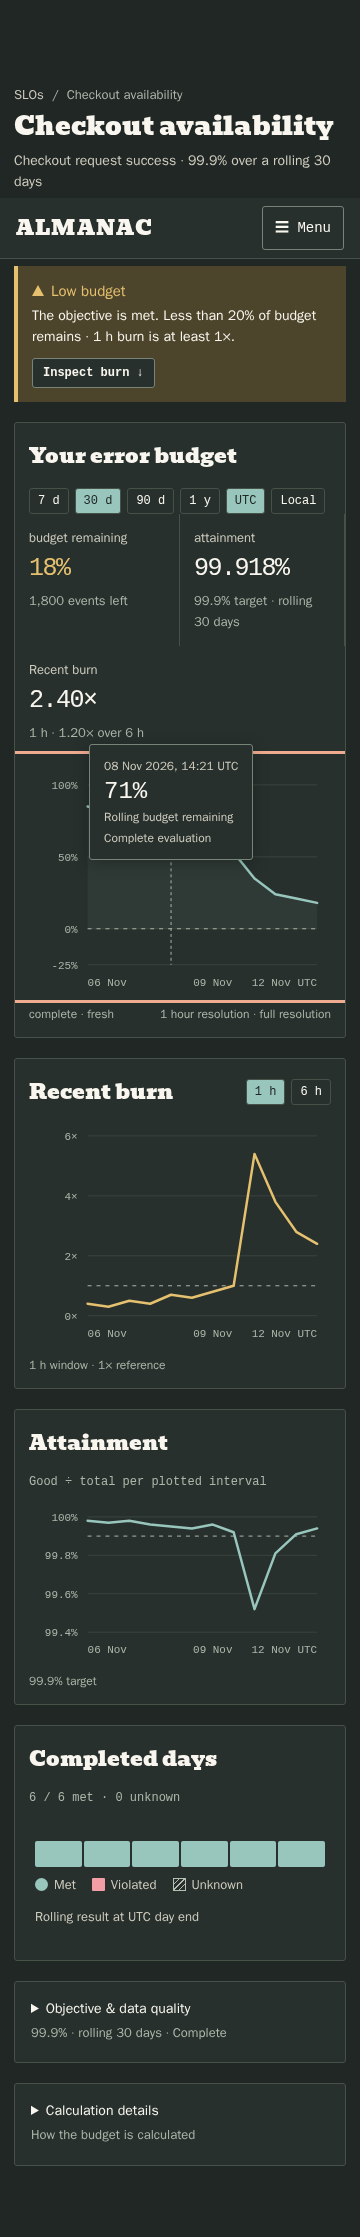
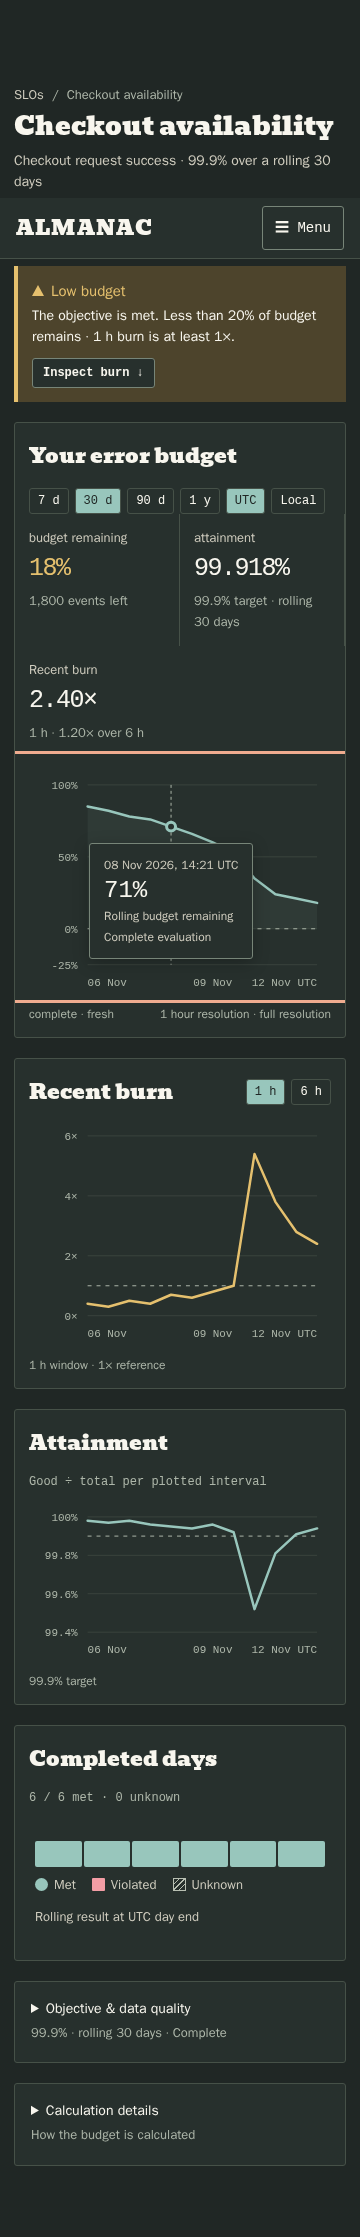
Handle narrow and same-sample SLO tooltip movement

Changed region(s): [[0.2444, 0.3393, 0.6417, 0.4318], [0.6722, 0.3701, 0.7028, 0.4318]]

diff --git a/web/src/components/charts/SloHistoryChart.tsx b/web/src/components/charts/SloHistoryChart.tsx
@@ -11,8 +11,8 @@ export function pointTime(value:string,zone:'UTC'|'local'='UTC'):string {
  return new Date(value).toLocaleString('en-GB',{day:'2-digit',month:'short',year:'numeric',hour:'2-digit',minute:'2-digit',hour12:false,...(zone==='UTC'?{timeZone:'UTC'}:{timeZoneName:'shortOffset'})})+(zone==='UTC'?' UTC':' local');
 }
 export function SloHistoryChart({kind,samples,start,end,target,compact=false,zone='UTC',generation,burnLabel='1 h'}:Props) {
- const host=useRef<HTMLDivElement>(null),tooltip=useRef<HTMLDivElement>(null),pointerY=useRef<number|undefined>(undefined);
- const [width,setWidth]=useState(980),[index,setIndex]=useState<number|null>(null);
+ const host=useRef<HTMLDivElement>(null),tooltip=useRef<HTMLDivElement>(null);
+ const [width,setWidth]=useState(980),[index,setIndex]=useState<number|null>(null),[pointerY,setPointerY]=useState<number|undefined>(undefined);
  useLayoutEffect(()=>{const el=host.current;if(!el)return;const resize=()=>setWidth(Math.max(280,el.clientWidth-(innerWidth>700?38:14)));resize();const observer=new ResizeObserver(resize);observer.observe(el);return()=>observer.disconnect();},[start,end]);
  useEffect(()=>setIndex(null),[samples,start,end,kind]);
  useEffect(()=>{const close=(e:globalThis.PointerEvent)=>{if(e.target instanceof Node&&!host.current?.contains(e.target))setIndex(null);};const escape=(e:KeyboardEvent)=>{if(e.key==='Escape')setIndex(null);};document.addEventListener('pointerdown',close);document.addEventListener('keydown',escape);return()=>{document.removeEventListener('pointerdown',close);document.removeEventListener('keydown',escape);};},[]);
@@ -45,18 +45,23 @@ export function SloHistoryChart({kind,samples,start,end,target,compact=false,zon
   const fitsRight=pointX+gap+panelWidth<=bounds.width-8,fitsLeft=pointX-gap-panelWidth>=8;
   const leftPosition=fitsRight?pointX+gap:fitsLeft?pointX-gap-panelWidth:Math.max(8,Math.min(pointX-panelWidth/2,bounds.width-panelWidth-8));
   // Match SLI inspection: offset from the pointer (or selected point for keyboard), then flip at viewport edges.
-  const anchorY=pointerY.current===undefined?pointY:pointerY.current-bounds.top;
+  const anchorY=pointerY===undefined?pointY:pointerY-bounds.top;
   const preferredTop=bounds.top+anchorY+gap+panelHeight<=innerHeight-8?anchorY+gap:anchorY-panelHeight-gap;
-  const topPosition=Math.max(8-bounds.top,Math.min(preferredTop,innerHeight-bounds.top-panelHeight-8));
+  const minTop=8-bounds.top,maxTop=innerHeight-bounds.top-panelHeight-8;
+  let topPosition=Math.max(minTop,Math.min(preferredTop,maxTop));
+  if(!fitsRight&&!fitsLeft&&topPosition<pointY+gap&&topPosition+panelHeight>pointY-gap){
+   const below=pointY+gap,above=pointY-panelHeight-gap;
+   topPosition=below<=maxTop?Math.max(minTop,below):Math.max(minTop,above);
+  }
   panel.style.left=`${leftPosition}px`;panel.style.top=`${topPosition}px`;
  });
- function inspect(e:PointerEvent<HTMLDivElement>){pointerY.current=e.clientY;const svg=e.currentTarget.querySelector('svg');if(!svg||!samples.length)return;const r=svg.getBoundingClientRect(),value=min+((e.clientX-r.left)/r.width*width-left)/(right-left)*(max-min);let nearest=0;for(let i=1;i<samples.length;i++)if(Math.abs(Date.parse(samples[i]!.evaluation_at)-value)<Math.abs(Date.parse(samples[nearest]!.evaluation_at)-value))nearest=i;setIndex(nearest);}
+ function inspect(e:PointerEvent<HTMLDivElement>){setPointerY(e.clientY);const svg=e.currentTarget.querySelector('svg');if(!svg||!samples.length)return;const r=svg.getBoundingClientRect(),value=min+((e.clientX-r.left)/r.width*width-left)/(right-left)*(max-min);let nearest=0;for(let i=1;i<samples.length;i++)if(Math.abs(Date.parse(samples[i]!.evaluation_at)-value)<Math.abs(Date.parse(samples[nearest]!.evaluation_at)-value))nearest=i;setIndex(nearest);}
  const tickFractions=width<480?[0,6/11,1]:[0,4/11,8/11,1];
  const selectedValue=selected&&allowed(selected)?(kind==='burn'?`${selected.burn}×`:percentExact(selected[field])):null;
  if(!Number.isFinite(min)||!Number.isFinite(max)||max<=min)return <p role="alert">Chart unavailable: Timeline range must have end after start</p>;
  return <div ref={host} className={`slo-history-chart ${kind}`} data-chart-ready="true" data-rendered-generation={generation} data-rendered-zone={zone} role="group" aria-label={`Inspect ${label}. Use arrow keys, Home, End, Escape.`} tabIndex={samples.length?0:undefined}
  onPointerMove={e=>{if(e.pointerType!=='touch')inspect(e);}} onPointerDown={e=>{if(e.pointerType==='touch')inspect(e);}} onPointerLeave={e=>{if(e.pointerType!=='touch')setIndex(null);}} onBlur={()=>setIndex(null)}
- onKeyDown={e=>{pointerY.current=undefined;if(e.key==='Escape'){setIndex(null);return;}if(!samples.length||!['Home','End','ArrowLeft','ArrowRight'].includes(e.key))return;e.preventDefault();setIndex(i=>e.key==='Home'?0:e.key==='End'?samples.length-1:Math.max(0,Math.min(samples.length-1,(i??samples.length-1)+(e.key==='ArrowRight'?1:-1))));}}>
+ onKeyDown={e=>{setPointerY(undefined);if(e.key==='Escape'){setIndex(null);return;}if(!samples.length||!['Home','End','ArrowLeft','ArrowRight'].includes(e.key))return;e.preventDefault();setIndex(i=>e.key==='Home'?0:e.key==='End'?samples.length-1:Math.max(0,Math.min(samples.length-1,(i??samples.length-1)+(e.key==='ArrowRight'?1:-1))));}}>
  {samples.length===0?<p className="slo-history-empty">No history available for this period.</p>:<svg viewBox={`0 0 ${width} ${height}`} role="img" aria-label={`${label}; unavailable measurements are gaps.`}>
  {ticks.map((t,i)=><g key={i}><line className="gridline" x1={left} x2={right} y1={y(t)} y2={y(t)}/><text className="axis" x="55" y={y(t)+4} textAnchor="end">{Number(t.toFixed(kind==='attainment'?3:2))}{unit}</text></g>)}
  <line className="ref" x1={left} x2={right} y1={y(kind==='budget'?0:kind==='burn'?1:Number(target)*100)} y2={y(kind==='budget'?0:kind==='burn'?1:Number(target)*100)}/>

diff --git a/web/browser/slo-tooltip.spec.ts b/web/browser/slo-tooltip.spec.ts
@@ -1,0 +1,32 @@
+import {expect,test} from '@playwright/test';
+test('point tooltip stays compact without shifting the graph or covering selection',{tag:'@matrix'},async({page},info)=>{
+ await page.addInitScript(theme=>localStorage.setItem('almanac-theme',theme),info.project.name.endsWith('dark')?'dark':'light');await page.goto('/design-system');await page.getByRole('button',{name:'Charts',exact:true}).click();
+ const chart=page.locator('.slo-history-chart.budget'),svg=chart.locator('svg');const before=await chart.boundingBox();
+ await chart.focus();
+ for(const key of ['Home','End']){
+ await page.keyboard.press(key);const tip=chart.getByRole('tooltip');await expect(tip).toBeVisible();const box=(await tip.boundingBox())!,point=(await chart.locator('.inspection-dot').boundingBox())!;
+ expect(box.width).toBeLessThanOrEqual(260);expect(box.x).toBeGreaterThanOrEqual(before!.x);expect(box.x+box.width).toBeLessThanOrEqual(before!.x+before!.width);
+ expect(box.x+box.width<point.x||box.x>point.x+point.width||box.y+box.height<point.y||box.y>point.y+point.height).toBe(true);
+ expect((await chart.boundingBox())!.height).toBe(before!.height);
+ await chart.screenshot({path:`../.local/catalogue-tooltip-${info.project.name}-${key}.png`});
+ }
+ await page.keyboard.press('Escape');await expect(chart.getByRole('tooltip')).toHaveCount(0);
+ const bounds=(await svg.boundingBox())!;await page.mouse.move(bounds.x+bounds.width*.45,bounds.y+bounds.height*.5);await expect(chart.getByRole('tooltip')).toBeVisible();expect((await chart.boundingBox())!.height).toBe(before!.height);
+ await page.screenshot({path:`../.local/catalogue-hover-${info.project.name}.png`,fullPage:true});
+ await page.mouse.move(0,0);await expect(chart.getByRole('tooltip')).toHaveCount(0);
+});
+
+
+test('narrow-chart middle point stays clear when the pointer is above it',{tag:'@matrix'},async({page},info)=>{
+ await page.addInitScript(theme=>localStorage.setItem('almanac-theme',theme),info.project.name.endsWith('dark')?'dark':'light');await page.goto('/design-system');await page.getByRole('button',{name:'Charts',exact:true}).click();
+ const chart=page.locator('.slo-history-chart.budget');await chart.scrollIntoViewIfNeeded();const marker=(await chart.locator('.qualified-point.partial').boundingBox())!;
+ await page.mouse.move(marker.x+marker.width/2,marker.y-55);await expect(chart.getByRole('tooltip')).toContainText('65%');const tip=(await chart.getByRole('tooltip').boundingBox())!,point=(await chart.locator('.inspection-dot').boundingBox())!;
+ expect(tip.x+tip.width<point.x||tip.x>point.x+point.width||tip.y+tip.height<point.y||tip.y>point.y+point.height).toBe(true);
+ await page.screenshot({path:`../.local/catalogue-middle-${info.project.name}.png`,fullPage:true});
+});
+
+test('tooltip follows vertical movement within the same sample',async({page})=>{
+ await page.goto('/design-system');await page.getByRole('button',{name:'Charts',exact:true}).click();const chart=page.locator('.slo-history-chart.budget');await chart.scrollIntoViewIfNeeded();const marker=(await chart.locator('.qualified-point.partial').boundingBox())!;
+ const x=marker.x+marker.width/2;await page.mouse.move(x,marker.y+10);await expect(chart.getByRole('tooltip')).toContainText('65%');const before=(await chart.getByRole('tooltip').boundingBox())!.y;
+ await page.mouse.move(x,marker.y+40);await expect(chart.getByRole('tooltip')).toContainText('65%');await expect.poll(async()=>(await chart.getByRole('tooltip').boundingBox())!.y).not.toBe(before);
+});

diff --git a/web/browser/slo-detail-visual.spec.ts b/web/browser/slo-detail-visual.spec.ts
@@ -62,19 +62,10 @@ test('dense 30-day budget stays visible during inspection',{tag:'@matrix'},async
 });
 
 
-test('point tooltip stays compact without shifting the graph or covering selection',{tag:'@matrix'},async({page},info)=>{
+test('SLO point inspection keeps following panels in place',{tag:'@matrix'},async({page},info)=>{
  await page.addInitScript(theme=>localStorage.setItem('almanac-theme',theme),info.project.name.endsWith('dark')?'dark':'light');await installSloFixture(page);await page.goto(`/slos/${sloID}`);
- const chart=page.locator('.slo-history-chart.budget'),next=page.locator('#burn'),svg=chart.locator('svg');const before=await chart.boundingBox(),nextBefore=await next.evaluate(el=>el.getBoundingClientRect().top+scrollY);
- await chart.focus();
- for(const key of ['Home','End']){
- await page.keyboard.press(key);const tip=chart.getByRole('tooltip');await expect(tip).toBeVisible();const box=(await tip.boundingBox())!,point=(await chart.locator('.inspection-dot').boundingBox())!;
- expect(box.width).toBeLessThanOrEqual(260);expect(box.x).toBeGreaterThanOrEqual(before!.x);expect(box.x+box.width).toBeLessThanOrEqual(before!.x+before!.width);
- expect(box.x+box.width<point.x||box.x>point.x+point.width||box.y+box.height<point.y||box.y>point.y+point.height).toBe(true);
- expect((await chart.boundingBox())!.height).toBe(before!.height);expect(await next.evaluate(el=>el.getBoundingClientRect().top+scrollY)).toBe(nextBefore);
- await chart.screenshot({path:`../.local/slo-tooltip-${info.project.name}-${key}.png`});
- }
- await page.keyboard.press('Escape');await expect(chart.getByRole('tooltip')).toHaveCount(0);
- const bounds=(await svg.boundingBox())!;await page.mouse.move(bounds.x+bounds.width*.45,bounds.y+bounds.height*.5);await expect(chart.getByRole('tooltip')).toBeVisible();expect((await chart.boundingBox())!.height).toBe(before!.height);
- await page.screenshot({path:`../.local/slo-hover-${info.project.name}.png`,fullPage:true});
- await page.mouse.move(0,0);await expect(chart.getByRole('tooltip')).toHaveCount(0);
+ const chart=page.locator('.slo-history-chart.budget'),next=page.locator('#burn');await expect(chart.locator('svg')).toBeVisible();await page.evaluate(()=>document.fonts.ready);const nextBefore=await next.evaluate(el=>el.getBoundingClientRect().top+scrollY);
+ await chart.focus();await page.keyboard.press('End');await expect(chart.getByRole('tooltip')).toContainText('18%');expect(await next.evaluate(el=>el.getBoundingClientRect().top+scrollY)).toBe(nextBefore);
+ await page.keyboard.press('Escape');const bounds=(await chart.locator('svg').boundingBox())!;await page.mouse.move(bounds.x+bounds.width*.45,bounds.y+bounds.height*.5);await expect(chart.getByRole('tooltip')).toBeVisible();expect(await next.evaluate(el=>el.getBoundingClientRect().top+scrollY)).toBe(nextBefore);
+ await page.screenshot({path:`../.local/slo-hover-${info.project.name}.png`,fullPage:true});await page.mouse.move(0,0);await expect(chart.getByRole('tooltip')).toHaveCount(0);
 });

diff --git a/docs/evidence/slo-tooltip-fix/README.md b/docs/evidence/slo-tooltip-fix/README.md
@@ -47,3 +47,23 @@ This is focused rendering/interaction evidence with validated API fixtures.
 Native-container and performance suites were not repeated; broad PR gates run
 in CI. Screenshots were visually inspected, including desktop and mobile right-edge
 inspection; they do not establish physical-device or screen-reader acceptance.
+
+
+## PR #93 review follow-up
+
+Three findings were validated. Shared compactness, point-clearance and chart-height
+checks now run against the actual design-system Charts catalogue; the SLO route
+retains its next-panel document-position and navigation checks. Pointer height is
+reactive, so vertical movement within the selected sample repositions the tooltip.
+When neither horizontal side fits, vertical placement excludes the selected point.
+Both new bugs reproduced before correction (desktop same-sample movement and a
+mobile middle point with the pointer above it).
+
+Six unit cases and TypeScript pass. The combined focused browser run passes 36
+cases but reports two route baselines measured against the loading placeholder
+at document position zero. The route check now waits for the visible graph and
+fonts before measuring; all six route cases pass (15.7 s). Catalogue coverage
+includes all 13 cases across both themes and three widths. Production build
+(0.597 s) and exclusion pass. Screenshots are refreshed for the final interaction.
+Prior required CI suites passed on `71f76a7`; updated-head CI remains a separate
+gate. Native-container/performance checks were not repeated for this correction.

diff --git a/docs/tasks/F6-T11.md b/docs/tasks/F6-T11.md
@@ -173,3 +173,23 @@ passes all six unit cases, TypeScript and all 25 SLO browser cases (1.3 min).
 layout, final captures, acceptance checks and verification limits. The initial
 mobile check was corrected to measure document position independently of native
 focus scrolling. PR publication with visual evidence is explicitly requested.
+
+
+## PR #93 review follow-up
+
+Three findings were validated. Shared compactness, point-clearance and chart-height
+checks now run against the actual design-system Charts catalogue; the SLO route
+retains its next-panel document-position and navigation checks. Pointer height is
+reactive, so vertical movement within the selected sample repositions the tooltip.
+When neither horizontal side fits, vertical placement excludes the selected point.
+Both new bugs reproduced before correction (desktop same-sample movement and a
+mobile middle point with the pointer above it).
+
+Six unit cases and TypeScript pass. The combined focused browser run passes 36
+cases but reports two route baselines measured against the loading placeholder
+at document position zero. The route check now waits for the visible graph and
+fonts before measuring; all six route cases pass (15.7 s). Catalogue coverage
+includes all 13 cases across both themes and three widths. Production build
+(0.597 s) and exclusion pass. Screenshots are refreshed for the final interaction.
+Prior required CI suites passed on `71f76a7`; updated-head CI remains a separate
+gate. Native-container/performance checks were not repeated for this correction.
